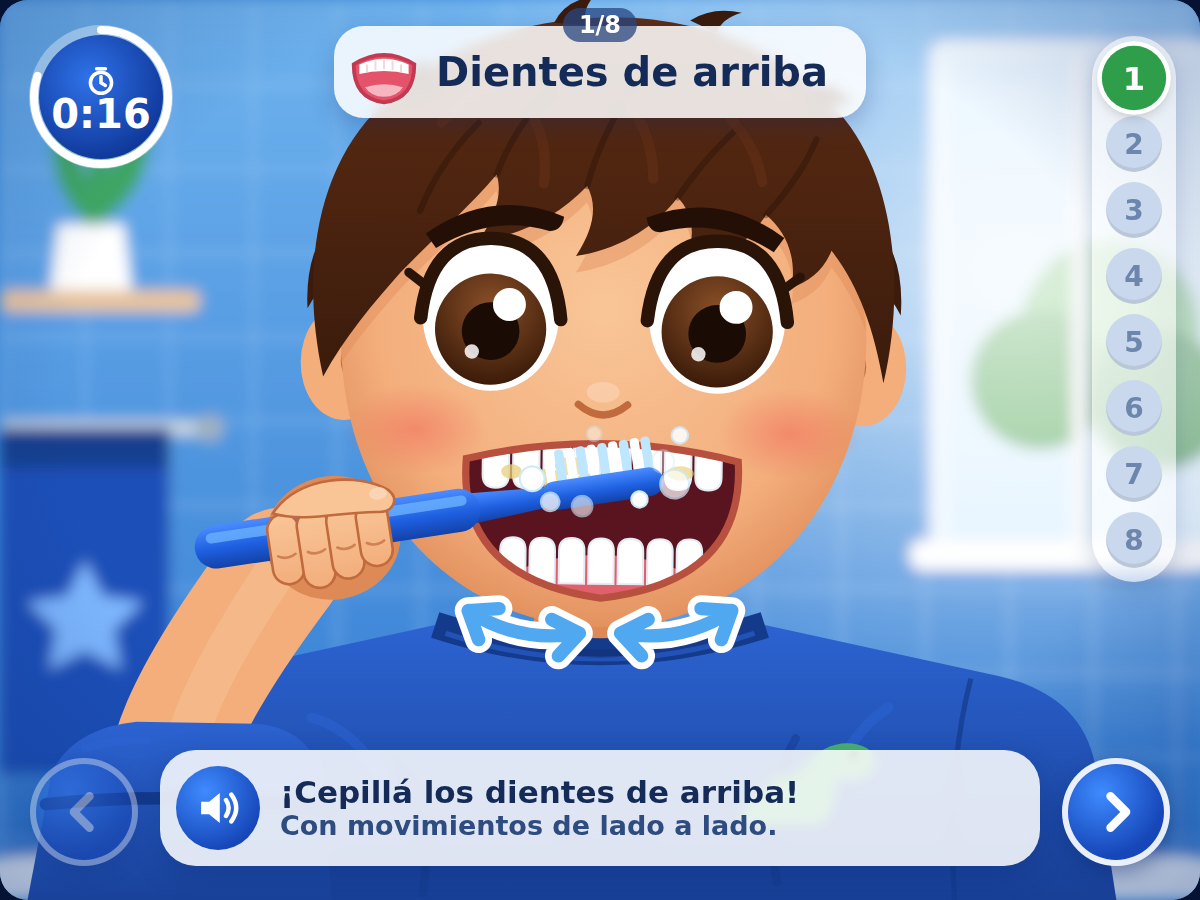
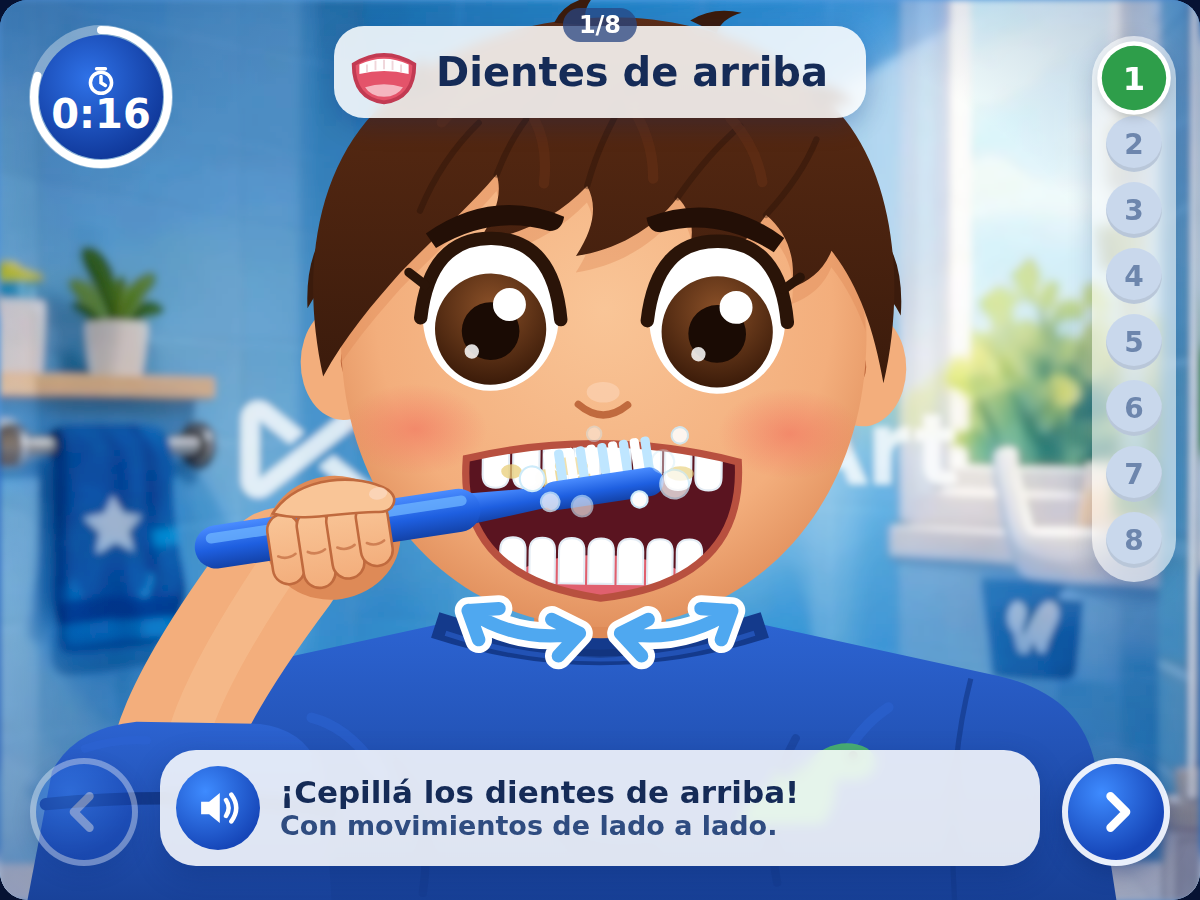
Fondos pintados con OpenArt en todas las escenas
Baño (a partir de un cuadro del video de referencia) para la misión y los
pasos, con desenfoque suave detrás del niño, y cielo nocturno para inicio
y final. Se cargan desde juego/recursos; el fondo vectorial queda como
respaldo. Las imágenes actuales llevan la marca de agua del plan Free.

Claude-Session: https://claude.ai/code/session_01CqgnvX7pNUGeMm5RY4B4eg

Changed region(s): [[0.0, 0.0, 1.0, 1.0], [0.6167, 0.6222, 0.6783, 0.7156]]

diff --git a/juego/index.html b/juego/index.html
@@ -239,7 +239,16 @@
   /* =====================================================================
      DIBUJO (SVG como texto)
      ===================================================================== */
-  function fondoBano(u) {
+  /* Fondos pintados (generados con OpenArt a partir del video de referencia).
+     Se dibujan encima del fondo vectorial, que queda como respaldo si falta el archivo. */
+  var FONDO_BANO = 'recursos/fondo-bano.jpg';
+  var FONDO_NOCHE = 'recursos/fondo-noche.jpg';
+  function fotoFondo(href, filtro) {
+    return '<image href="' + href + '" x="0" y="0" width="1200" height="900" preserveAspectRatio="xMidYMid slice"' +
+      (filtro ? ' filter="url(#' + filtro + ')"' : '') + '/>';
+  }
+
+  function fondoBano(u, desenfoque) {
     u = u || '';
     return '' +
       '<defs>' +
@@ -248,6 +257,7 @@
         '<radialGradient id="gLuz' + u + '" cx="0.85" cy="0.3" r="0.55"><stop offset="0" stop-color="#FFFFFF" stop-opacity=".75"/><stop offset="1" stop-color="#FFFFFF" stop-opacity="0"/></radialGradient>' +
         '<radialGradient id="gVineta' + u + '" cx=".5" cy=".45" r=".75"><stop offset=".6" stop-color="#0A2A70" stop-opacity="0"/><stop offset="1" stop-color="#0A2A70" stop-opacity=".35"/></radialGradient>' +
         '<pattern id="pAzulejos' + u + '" width="84" height="84" patternUnits="userSpaceOnUse"><path d="M0 1H84M1 0V84" stroke="#A9D2F7" stroke-opacity=".55" stroke-width="3"/></pattern>' +
+        '<filter id="desenfoqueFoto' + u + '" x="-2%" y="-2%" width="104%" height="104%"><feGaussianBlur stdDeviation="' + (desenfoque || 0) + '"/></filter>' +
       '</defs>' +
       '<g filter="url(#desenfoque' + u + ')">' +
         '<rect width="1200" height="900" fill="url(#gPared' + u + ')"/>' +
@@ -270,7 +280,7 @@
         // lavabo en primer plano (abajo)
         '<path d="M-20 860Q600 800 1220 860V900H-20Z" fill="#EAF2FA"/>' +
       '</g>' +
-      '<rect width="1200" height="900" fill="url(#gLuz' + u + ')"/>' +
+      fotoFondo(FONDO_BANO, desenfoque ? 'desenfoqueFoto' + u : '') +
       '<rect width="1200" height="900" fill="url(#gVineta' + u + ')"/>';
   }
 
@@ -672,13 +682,14 @@
   var ENCUADRE_INICIO = 'translate(-340 90) scale(.9)';
 
   $('svg-inicio').innerHTML =
-    '<g>' + estrellas(60, 7) + '</g>' +
-    cohete(120, 110, .8, 40) + cohete(1130, 60, .5, 30) +
+    fotoFondo(FONDO_NOCHE) +
+    '<g>' + estrellas(18, 7) + '</g>' +
     '<g transform="' + ENCUADRE_INICIO + '">' + nino('inicio') + '</g>' +
     superDiente('sd-inicio', 530, 170, .4, 'varita');
-  $('svg-paso').innerHTML = fondoBano('-paso') + '<g transform="' + ENCUADRE_PASO + '">' + nino('paso') + '</g>';
+  $('svg-paso').innerHTML = fondoBano('-paso', 3) + '<g transform="' + ENCUADRE_PASO + '">' + nino('paso') + '</g>';
   $('svg-final').innerHTML =
-    '<g>' + estrellas(70, 21) + '</g>' +
+    fotoFondo(FONDO_NOCHE) +
+    '<g>' + estrellas(18, 21) + '</g>' +
     superDiente('sd-final', 600, 170, .62, 'varita') +
     '<g fill="#FFD23F">' +
       '<path d="M360 180l10 22 24 3-18 16 5 24-21-12-21 12 5-24-18-16 24-3z"/>' +
@@ -686,7 +697,7 @@
       '<path d="M910 260l6 13 14 2-10 10 3 14-13-7-13 7 3-14-10-10 14-2z"/>' +
     '</g>';
 
-  $('svg-mision').innerHTML = fondoBano('-mision') +
+  $('svg-mision').innerHTML = fondoBano('-mision', 0) +
     superDiente('sd-mision', 380, 400, 1.1, 'senala') +
     '<g id="premio" transform="translate(880 450)">' + cepilloPremio() + '</g>';
 

diff --git a/juego/README.md b/juego/README.md
@@ -29,3 +29,7 @@ Capturas: `cd juego && NODE_PATH="$(npm root -g)" node herramientas/capturas.js`
 - **ambiente:** aura que respira, haz de luz que titila, líneas de velocidad, destellos escalonados y parpadeo.
 
 El proyecto ya está creado en la cuenta de SVGator («Superdiente — Misión: Dientes Limpios»). Para exportarlo como SVG animado hace falta el plan Starter de SVGator; el archivo exportado va en `recursos/superdiente-animado.svg`.
+
+## Fondos pintados (OpenArt)
+
+`recursos/fondo-bano.jpg` (baño, pasos y misión) y `recursos/fondo-noche.jpg` (inicio y final) se generaron con OpenArt (Seedream 4.5) tomando como referencia un cuadro del video de PixVerse. Las versiones actuales son las del plan Free y traen la marca de agua de OpenArt; para quitarla, descargá las mismas imágenes sin marca desde OpenArt (plan pago) y reemplazá estos dos archivos con el mismo nombre. Si falta alguno, el juego usa el fondo vectorial.
